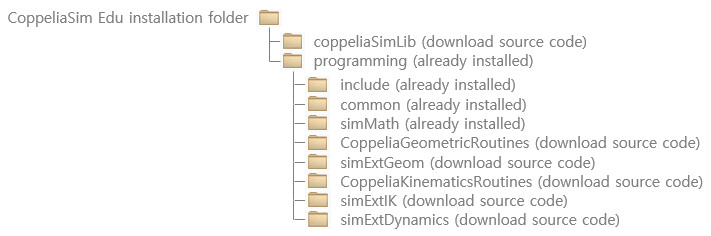
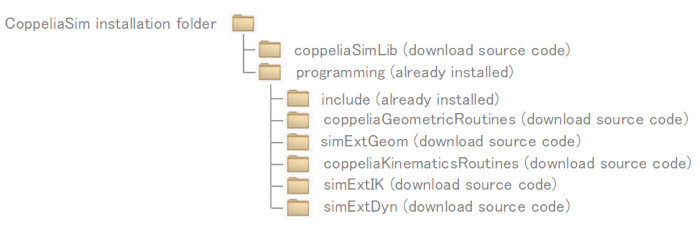
simCallScriptFunctionEx and simExecuteScriptString

Changed region(s): [[0.0, 0.0304, 0.99, 0.9739]]

diff --git a/en/regularApi/simExecuteScriptString.htm b/en/regularApi/simExecuteScriptString.htm
@@ -23,7 +23,7 @@
 Description 
 </td> 
 <td class=apiTableRightDescr>Executes some code in a specific script (from a <a href="../plugins.htm">plugin</a>, <a href="../mainClientApplication.htm">the main client application</a>, or from another script). The target script must be initialized for this call to succeed, e.g. when calling <a href="../simulationScripts.htm">simulation scripts</a>, then simulation must be running. See also <a href="simCallScriptFunction.htm">sim.callScriptFunction</a>. <br><br>
-<div>Data exchange between a plugin and a script happens via a <a href="../apiFunctions.htm#stacks">stack</a>. Reading and writing arguments from/to the stack gives you a maximum of flexibility, and you wil be able to exchange also complex data structures. But it can also be tedious and error prone. Use instead the helper classes located in <em>programming/common/stack</em> and <em>programming/include/stack</em>: they will greatly simplify the task. Have a look at the example plugins <a href="https://github.com/CoppeliaRobotics/simExtPluginSkeleton" target="_blank">simExtPluginSkeleton</a> and <a href="https://github.com/CoppeliaRobotics/simExtSkel" target="_blank">simExtSkel</a>.</div>
+<div>Data exchange between a plugin and a script happens via a <a href="../apiFunctions.htm#stacks">stack</a>. Reading and writing arguments from/to the stack gives you a maximum of flexibility, and you wil be able to exchange also complex data structures. But it can also be tedious and error prone. Use instead the helper classes located in <em>programming/</em><em>include/simStack</em>.</div>
 
 
 </td>
@@ -32,15 +32,13 @@ Description
 <td class=apiTableLeftCSyn>
 C/C++<br>synopsis
 </td> 
-<td class=apiTableRightCSyn>int simExecuteScriptString(int scriptHandleOrType,const char* stringAtScriptName,int stackId)</td> 
+<td class=apiTableRightCSyn>int simExecuteScriptString(int scriptHandle,const char* stringToExecute,int stackId)</td> 
 </tr> 
 <tr class=apiTableTr> 
 <td class=apiTableLeftCParam>C/C++<br>parameters</td> 
 <td class=apiTableRightCParam>
-<div><strong>scriptHandleOrType</strong>: the handle of the script, otherwise the <a href="../apiConstants.htm#scriptTypes">type of the script</a></div>
-<div><strong>stringAtScriptName</strong>: a string representing the  code to execute in the specified script.</div>
-<div class=tab>if <em>scriptHandleOrType</em> is sim.scripttype_childscript or sim.scripttype_customizationscript, then append to the string '@' and the path of the object the script is attached to, e.g. &quot;print('Hello')@/path/to/object&quot;</div>
-<div class=tab>if <em>scriptHandleOrType</em> is sim.scripttype_addonscript, then append to the string '@' and the name of the add-on, e.g. &quot;print('Hello')@Isometric scaling&quot;</div>
+<div><strong>scriptHandle</strong>: the handle of the script</div>
+<div><strong>stringToExecute</strong>: a string representing the  code to execute in the specified script</div>
 <div><strong>stackId</strong>: 0 (for no stack) or a <a href="simCreateStack.htm">stack handle</a>. The stack holds possible out values. See also the <a href="../apiFunctions.htm#stacks">available stack functions</a>.</div>
 </td> 
 </tr> 
@@ -56,7 +54,7 @@ C/C++<br>return value
 <td class=apiTableLeftLSyn>
 Lua<br>synopsis
 </td> 
-<td class=apiTableRightLSyn>int result,executionResult=sim.executeScriptString(string stringAtScriptName,int scriptHandleOrType)</td> 
+<td class=apiTableRightLSyn>int result,executionResult=sim.executeScriptString(string stringToExecute,int scriptHandle)</td> 
 </tr> 
 <tr class=apiTableTr> 
 <td class=apiTableLeftLParam>Lua<br>parameters</td> 
@@ -80,7 +78,7 @@ Lua<br>return values
 
 <tr class=apiTableTr>
 <td class=apiTableLeftPSyn>Python<br>synopsis</td>
-<td class=apiTableRightPSyn>int result,executionResult=sim.executeScriptString(string stringAtScriptName,int scriptHandleOrType)</td>
+<td class=apiTableRightPSyn>int result,executionResult=sim.executeScriptString(string stringToExecute,int scriptHandle)</td>
 </tr>
 
 </table> 

diff --git a/en/regularApi/simCallScriptFunctionEx.htm b/en/regularApi/simCallScriptFunctionEx.htm
@@ -24,7 +24,7 @@ Description
 </td> 
 <td class=apiTableRightDescr>Calls a script function (from a <a href="../plugins.htm">plugin</a>, <a href="../mainClientApplication.htm">the main client application</a>, or from another script). This represents a <a href="../callbackFunctions.htm">user callback</a> inside of a script. The target script must be initialized for this call to succeed, e.g. when calling <a href="../simulationScripts.htm">simulation scripts</a>, then simulation must be running. See also <a href="simExecuteScriptString.htm">sim.executeScriptString</a>.
 <br><br>
-<div>Data exchange between a plugin and a script happens via a <a href="../apiFunctions.htm#stacks">stack</a>. Reading and writing arguments from/to the stack gives you a maximum of flexibility, and you wil be able to exchange also complex data structures. But it can also be tedious and error prone. Use instead the helper classes located in <em>programming/common/stack</em> and <em>programming/include/stack</em>: they will greatly simplify the task. Have a look at the example plugins <a href="https://github.com/CoppeliaRobotics/simExtSkeletonPlugin" target="_blank">simExtSkeletonPlugin</a> and <a href="https://github.com/CoppeliaRobotics/simExtSkeletonPluginNG" target="_blank">simExtSkeletonPluginNG</a>.</div>
+<div>Data exchange between a plugin and a script happens via a <a href="../apiFunctions.htm#stacks">stack</a>. Reading and writing arguments from/to the stack gives you a maximum of flexibility, and you wil be able to exchange also complex data structures. But it can also be tedious and error prone. Use instead the helper classes located in <em>programming/</em><em>include/simStack</em>: they will greatly simplify the task. Have a look at the example plugins <a href="https://github.com/CoppeliaRobotics/simExtSkeletonPlugin" target="_blank">simExtSkeletonPlugin</a> and <a href="https://github.com/CoppeliaRobotics/simExtSkeletonPluginNG" target="_blank">simExtSkeletonPluginNG</a>.</div>
 
 
 </td>

diff --git a/en/regularApi/simRegisterScriptCallbackFunction.htm b/en/regularApi/simRegisterScriptCallbackFunction.htm
@@ -24,7 +24,7 @@ Description
 </td> 
 <td class=apiTableRightDescr>Registers a custom script function, that calls back a c/c++ function. This function is useful for plugins that wish to provide their own or customized script functions. See also <a href="simRegisterScriptVariable.htm">simRegisterScriptVariable</a>.
 <br><br>
-<div>Data exchange between a script and the plugin happens via a <a href="../apiFunctions.htm#stacks">stack</a>. Reading and writing arguments from/to the stack gives you a maximum of flexibility, and you wil be able to exchange also complex data structures. But it can also be tedious, if your data structures are anyway relatively simple. In that case you can use the helper classes <em>CScriptFunctionData</em> and <em>CScriptFunctionDataItem</em> located in <em>programming/common</em> and <em>programming/include</em>: they will greatly simplify the task.</div>
+<div>Data exchange between a script and the plugin happens via a <a href="../apiFunctions.htm#stacks">stack</a>. Reading and writing arguments from/to the stack gives you a maximum of flexibility, and you wil be able to exchange also complex data structures. But it can also be tedious, if your data structures are anyway relatively simple. In that case you can use the helper classes <em>CScriptFunctionData</em> and <em>CScriptFunctionDataItem</em> located in <em>programming/</em><em>include</em>: they will greatly simplify the task.</div>
 <br>
 <div>Use following 4 functions in the helper class: <em>readDataFromStack</em>, <em>getInDataPtr</em>, <em>pushOutData</em> and <em>writeDataToStack</em>.</div>
 </td>

diff --git a/en/versionInfo.htm b/en/versionInfo.htm
@@ -452,7 +452,7 @@ Version history:
 </h2>
  
 <li>Fixed several bugs. Thanks to Jan Dentler, Robert Lang, Raimund Krenmüller, Cedric Pradalier, Reza Mahjourian, Anuraj Rajendraprakash, Sébastien Granges, Ángel Luis Jiménez García, Leander Hille, Pierre Rouanet, Ulrich Schwesinger, Kenichi Hara, Federico Ferri, Martin Pecka and Nicola Piccinelli for noticing them or helping to resolve them.</li>
-<li>Added 2 classes (<em>CLuaFunctionData</em> and <em>CLuaFunctionDataItem</em>) that greatly simplify passing arguments to/from custom Lua function created in plugins. The two classes are located in <em>programming/common</em> and <em>programming/include</em> folders.</li>
+<li>Added 2 classes (<em>CLuaFunctionData</em> and <em>CLuaFunctionDataItem</em>) that greatly simplify passing arguments to/from custom Lua function created in plugins. The two classes are located in the <em>programming/</em><em>include</em> folder.</li>
 <li>Completely rewrote the Khepera3, the MTB, and the BubbleRob plugins: they have been greatly simplified.</li>
 <li>V-REP now supports the <a href="http://www.realistic-robot-simulation.org/">RRS-1 specifications</a> via a plugin (<em>simExtRRS1</em>). It allows to connect and interact with all RCS modules and robots that supports the RRS-1 specifications. For an example have a look at the demo file <em>scenes/RRS-1 demo.ttt</em>.</li>
 <li>Rewrote the <a href="pluginTutorial.htm">plugin tutorial</a>, which has become much simpler.</li>

diff --git a/en/pluginTutorial.htm b/en/pluginTutorial.htm
@@ -244,7 +244,7 @@ end</code>
 <li> a calling tip string</li>
 <li> a callback address</li>
 
-<p>When a script calls the specified function name, then CoppeliaSim calls the callback address. The most difficult task inside of a callback function is to correctly read the input arguments, and correctly write the output values. To ease the task, two helper classes are used, that will be in charge of that: <em>CScriptFunctionData</em> and <em>CScriptFunctionDataItem</em>, located in <em>programming/common</em> and <em>programming/include</em>.</p>
+<p>When a script calls the specified function name, then CoppeliaSim calls the callback address. The most difficult task inside of a callback function is to correctly read the input arguments, and correctly write the output values. To ease the task, two helper classes are used, that will be in charge of that: <em>CScriptFunctionData</em> and <em>CScriptFunctionDataItem</em>, located in <em>programming/</em><em>include</em>.</p>
 <p>When writing your own custom script functions, try to use the same code layout/skeleton as was done in file <em>simExtBubbleRob.cpp</em>.</p>
 
 

diff --git a/en/simEigen.htm b/en/simEigen.htm
@@ -50,7 +50,7 @@ td.section { margin: 0; padding: 0; }
 <div>
 <strong>b</strong> (grid, default: nil): an optional vector to compute pinv(m)*b, which is more stable and efficient than right-multiplying the result by b</div>
 <div>
-<strong>damping</strong> (float, default: 0): damping factor. if &gt; 0 then it will return m'*(m*m'+damping*I)^-1</div>
+<strong>damping</strong> (float, default: 0): damping factor. if &gt; 0 then it will return m'*(m*m'+damping^2*I)^-1</div>
 </td>
 </tr>
 <tr class="apiTableTr">
